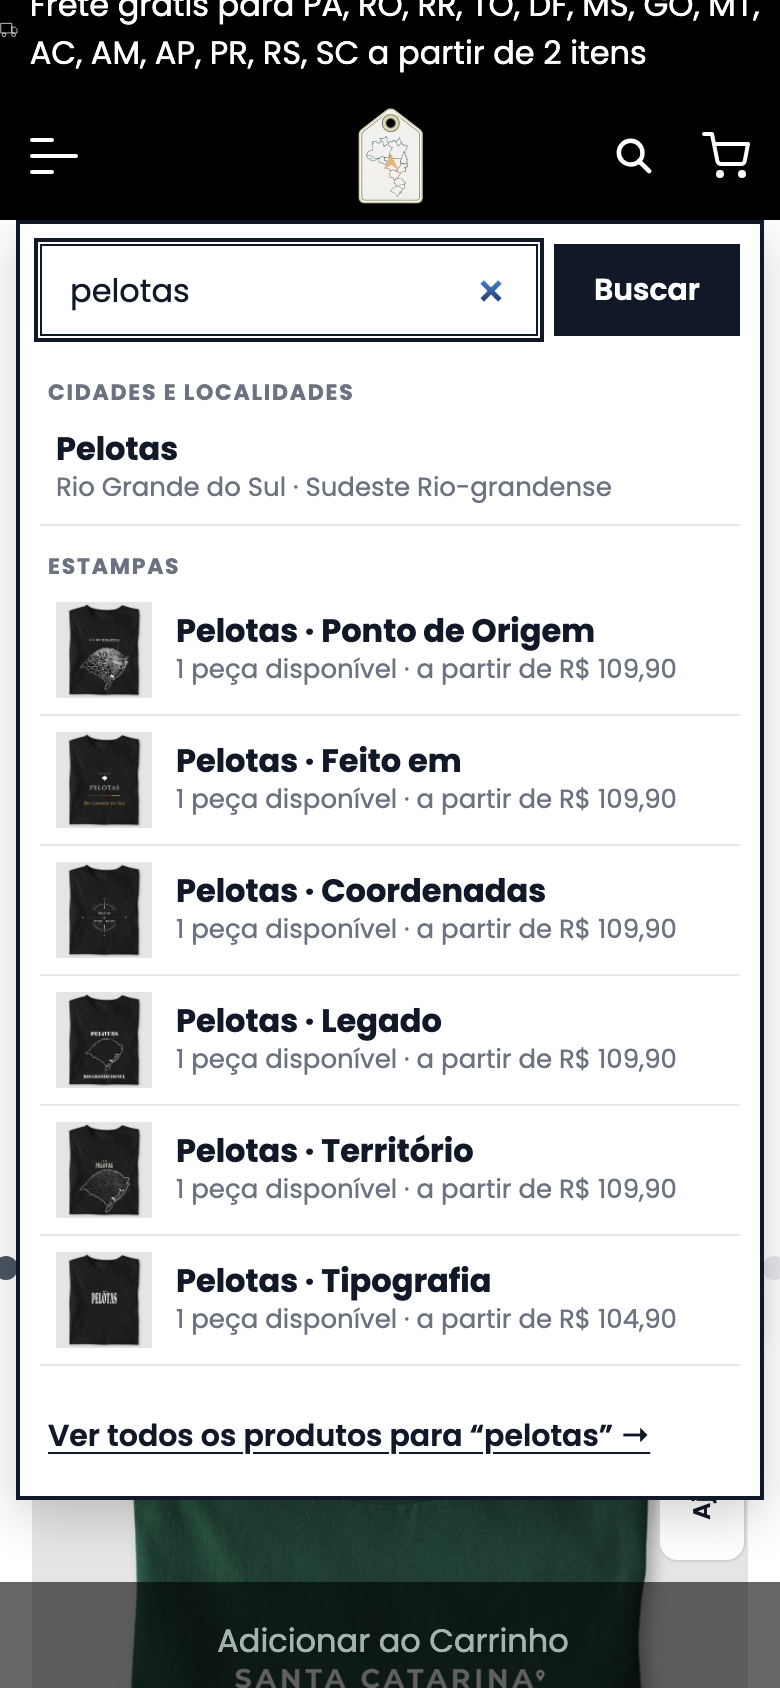
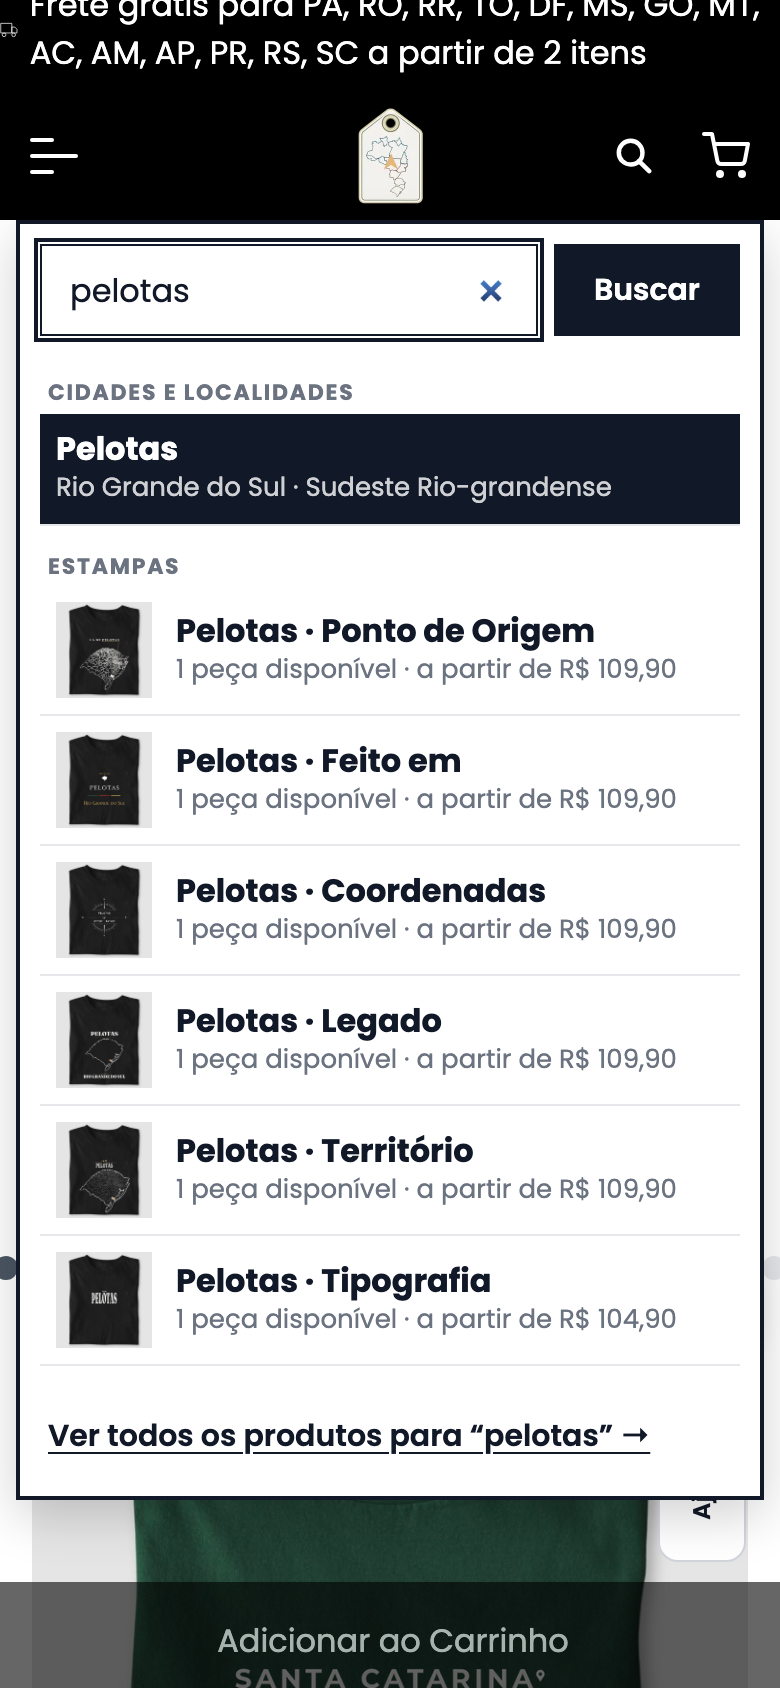
fix(header-nav): a primeira sugestão vem marcada e Enter a abre, como na vitrine
A busca da vitrine marca a primeira sugestão quando os resultados chegam
("pelotas" + Enter = Pelotas); a da INK ia para a página de resultados. Sem
sugestão, Enter continua indo a /sul/busca. Teste novo: "Sua cidade" com
carrinho leva o cart_ref E a marca #sua-cidade. Capturas da busca refeitas.

Changed region(s): [[0.0308, 0.2464, 0.9538, 0.3081]]

diff --git a/test/header-nav.dom.test.js b/test/header-nav.dom.test.js
@@ -734,18 +734,32 @@ test('search suggestions: the storefront\'s own groups while typing (one request
   assert.equal(all.textContent, 'Ver todos os produtos para “Pel” →'); assert.equal(all.getAttribute('href'), SF + '/sul/busca?q=Pel');
 });
 
-test('search suggestions: the arrows walk the rows and Enter opens the chosen one; without a choice Enter goes to the results page, as before', async () => {
+test('search suggestions: like the storefront, the first row is marked and Enter opens it; the arrows walk the rows; with no suggestion Enter goes to the results page', async () => {
   const t = setup({ config: WITH_SITE, fetchImpl: withBusca(BUSCA) }); await tick(300);
   click(t, desktopLupa(t)); type(t, 'Pel'); await tick(400);
   const input = t.q('#o-nav-q');
-  key(t, input, 'ArrowDown'); key(t, input, 'ArrowDown');
-  const rows = t.all('#o-nav-list [role="option"]');
-  assert.equal(rows[1].getAttribute('aria-selected'), 'true'); assert.equal(input.getAttribute('aria-activedescendant'), rows[1].id);
+  let rows = t.all('#o-nav-list [role="option"]');
+  assert.equal(rows[0].getAttribute('aria-selected'), 'true'); assert.equal(input.getAttribute('aria-activedescendant'), rows[0].id);
   enter(t); await tick(80);
-  assert.deepEqual(t.navigations, ['https://www.usesul.com.br/usesul/product/pelotas-territorio']);
+  assert.deepEqual(t.navigations, [SF + '/sul/rs/pelotas']);
   type(t, 'Pelo'); await tick(400);
+  key(t, input, 'ArrowDown');
+  rows = t.all('#o-nav-list [role="option"]');
+  assert.equal(rows[1].getAttribute('aria-selected'), 'true');
   enter(t); await tick(80);
-  assert.equal(t.navigations[1], SF + '/sul/busca?q=Pelo');
+  assert.equal(t.navigations[1], 'https://www.usesul.com.br/usesul/product/pelotas-territorio');
+  const none = setup({ config: WITH_SITE, fetchImpl: withBusca({ v: 1, groups: [], others: [] }) }); await tick(300);
+  click(none, desktopLupa(none)); type(none, 'Pelo'); await tick(400);
+  enter(none); await tick(80);
+  assert.deepEqual(none.navigations, [SF + '/sul/busca?q=Pelo']);
+});
+
+test('site header: "Sua cidade" with a cart in the INK goes to the storefront with the cart token AND the #sua-cidade mark (the journey still opens there)', async () => {
+  const t = setup({ features: WITH_MIRROR, cart: cartHtml, config: WITH_SITE }); await tick(300);
+  click(t, t.q('[data-origens-nav="desktop"] .o-nav-full > a')); await tick(400);
+  assert.equal(t.posts().length, 1);
+  const out = new URL(t.navs.at(-1));
+  assert.equal(out.origin + out.pathname, SF + '/sul'); assert.equal(out.searchParams.get('cart_ref'), REF); assert.equal(out.hash, '#sua-cidade');
 });
 
 test('search suggestions: nothing found says so; a failing or malformed answer leaves only the field and "Ver todos"; a stale answer never replaces the current one', async () => {

diff --git a/src/loader/header-nav.js b/src/loader/header-nav.js
@@ -518,6 +518,8 @@ export const HEADER_NAV = String.raw`
         }
         if (text.length >= 2) footNodes.push(allLink(text));
         showSugg(rows, footNodes, text.length === 0 ? '' : count > 0 ? count + ' resultados. Use as setas para navegar.' : text.length >= 2 ? 'Nenhum resultado.' : '');
+        // Como na vitrine: a primeira sugestão já vem marcada e Enter a abre ("pelotas" + Enter = Pelotas); as setas trocam.
+        if (count > 0) setActive(0);
       };
       const suggest = () => {
         clearTimeout(suggestTimer);
@@ -544,7 +546,7 @@ export const HEADER_NAV = String.raw`
         }, NAV_DEBOUNCE_MS);
       };
       const submit = () => {
-        // Uma sugestão escolhida pelas setas: Enter a abre, como na vitrine.
+        // A sugestão marcada (a primeira, ou a escolhida pelas setas): Enter a abre, como na vitrine. Sem sugestões, a página de resultados.
         const chosen = active >= 0 ? options()[active] : null;
         if (chosen) { chosen.click(); return; }
         sync();
